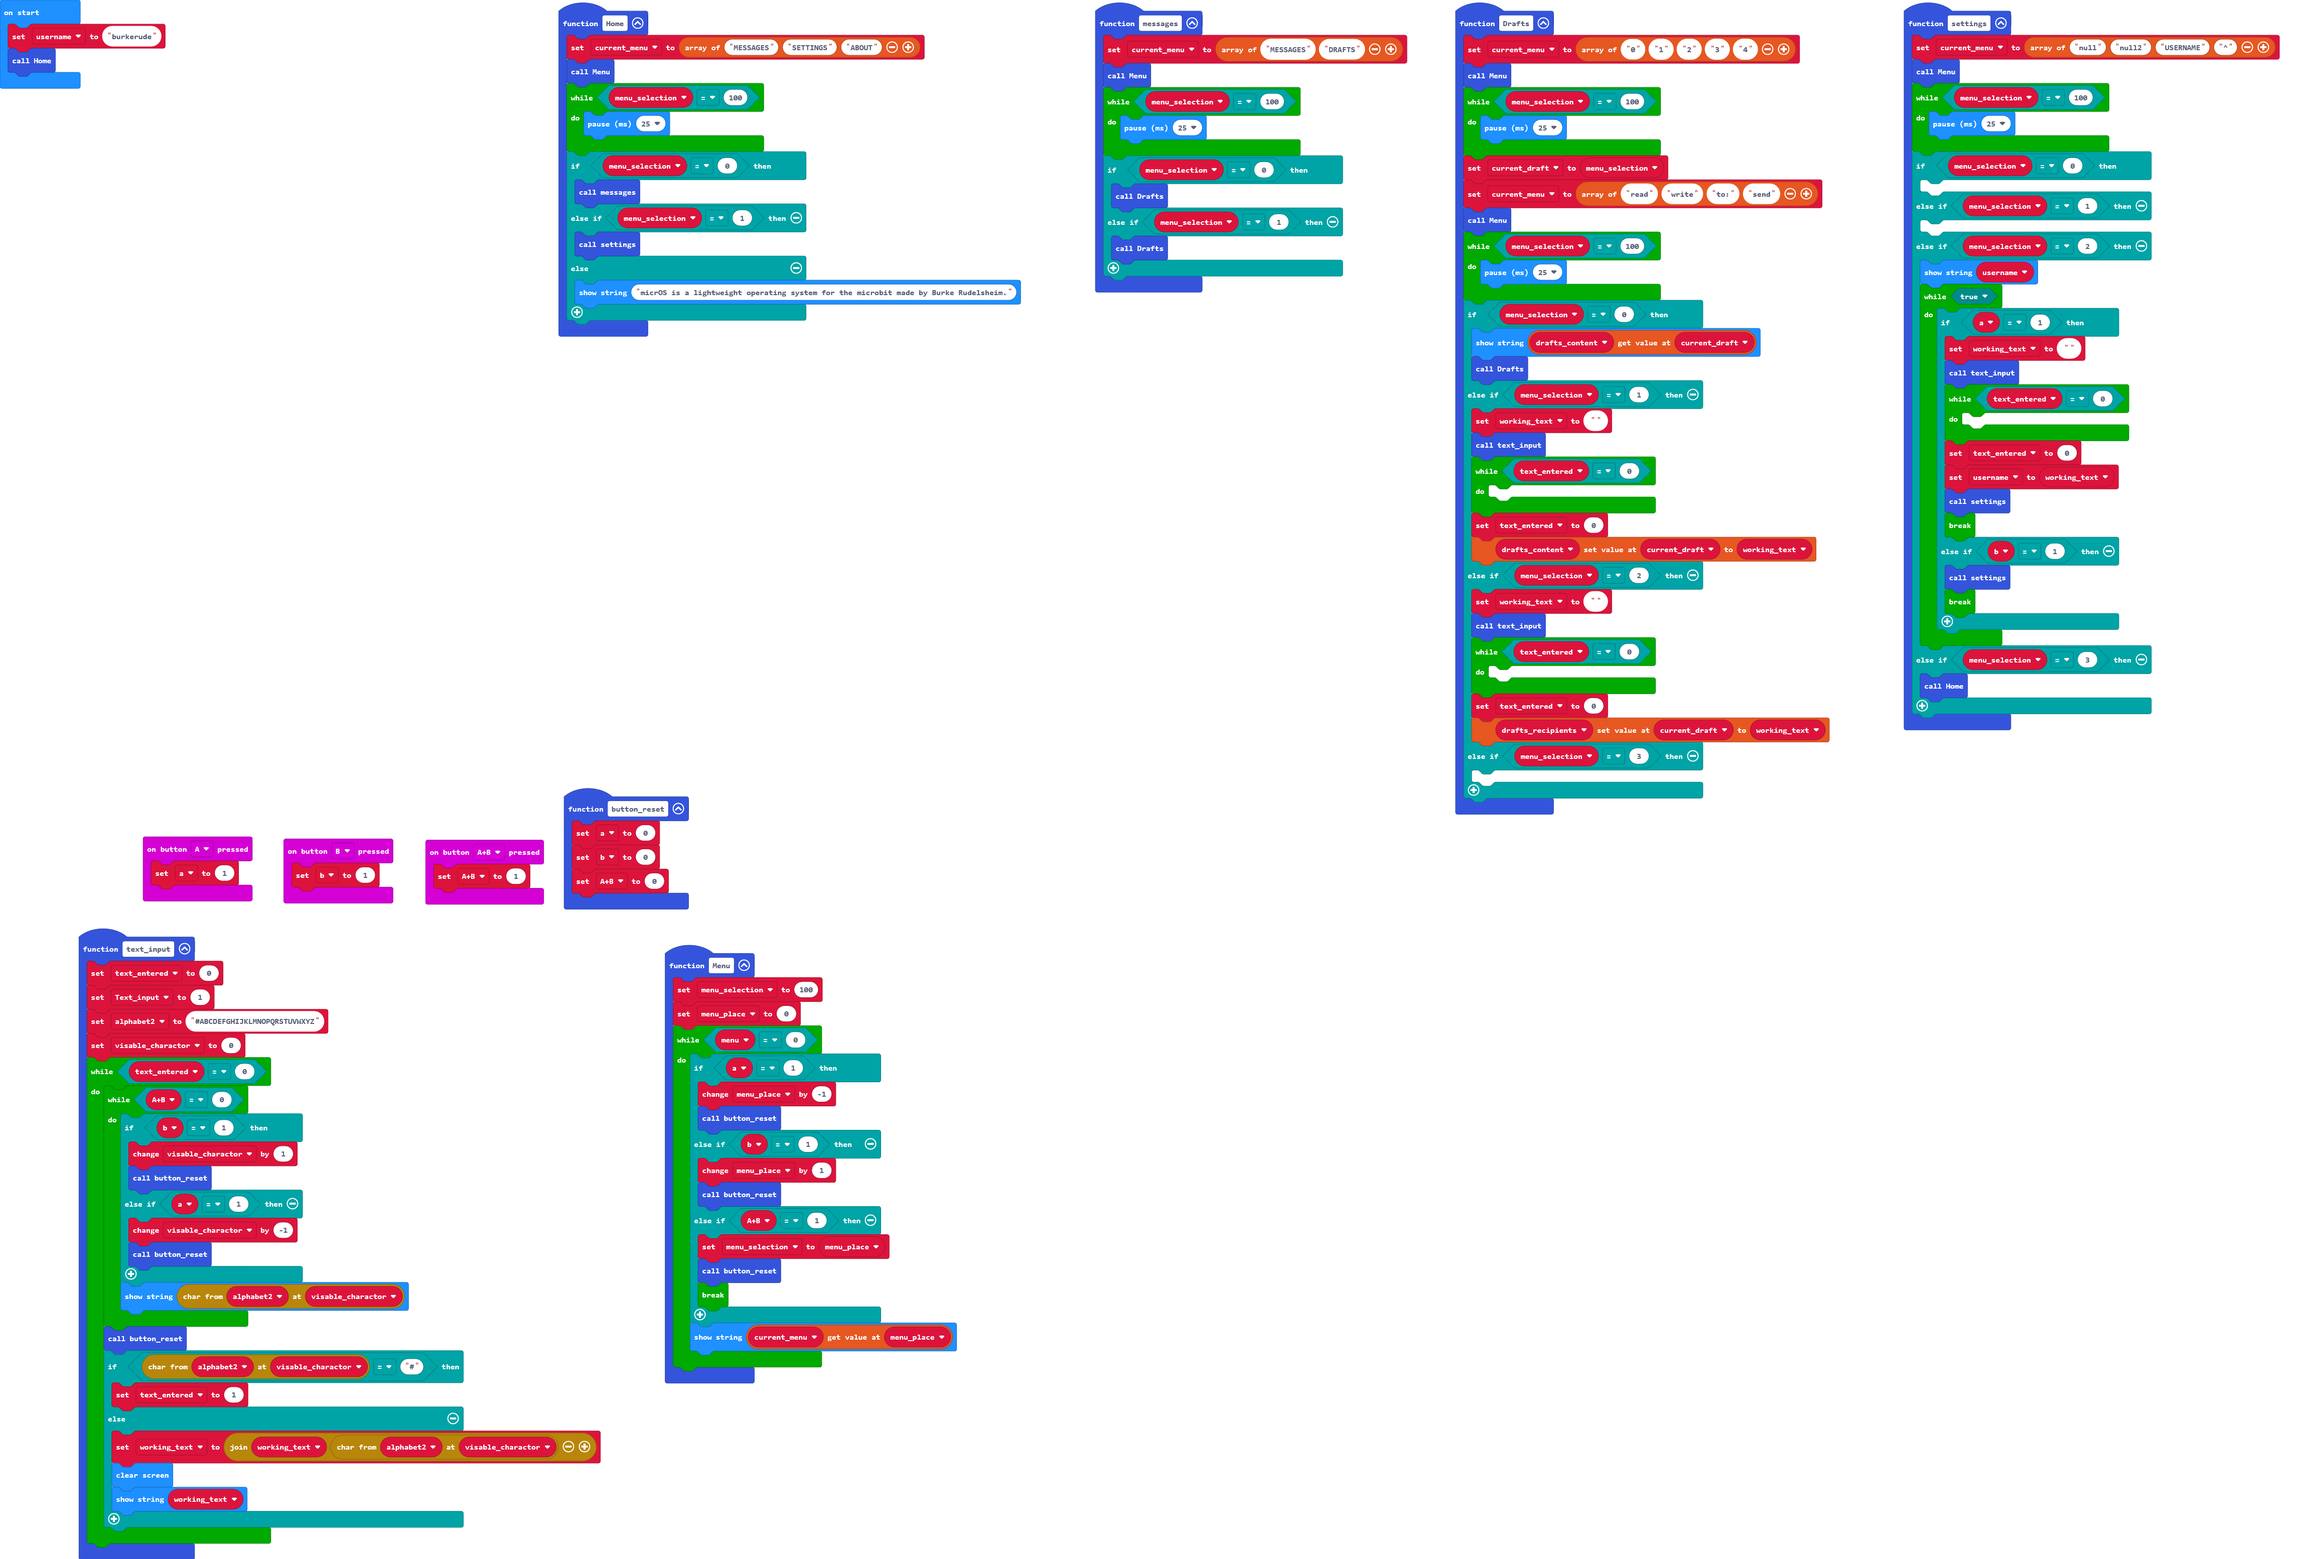
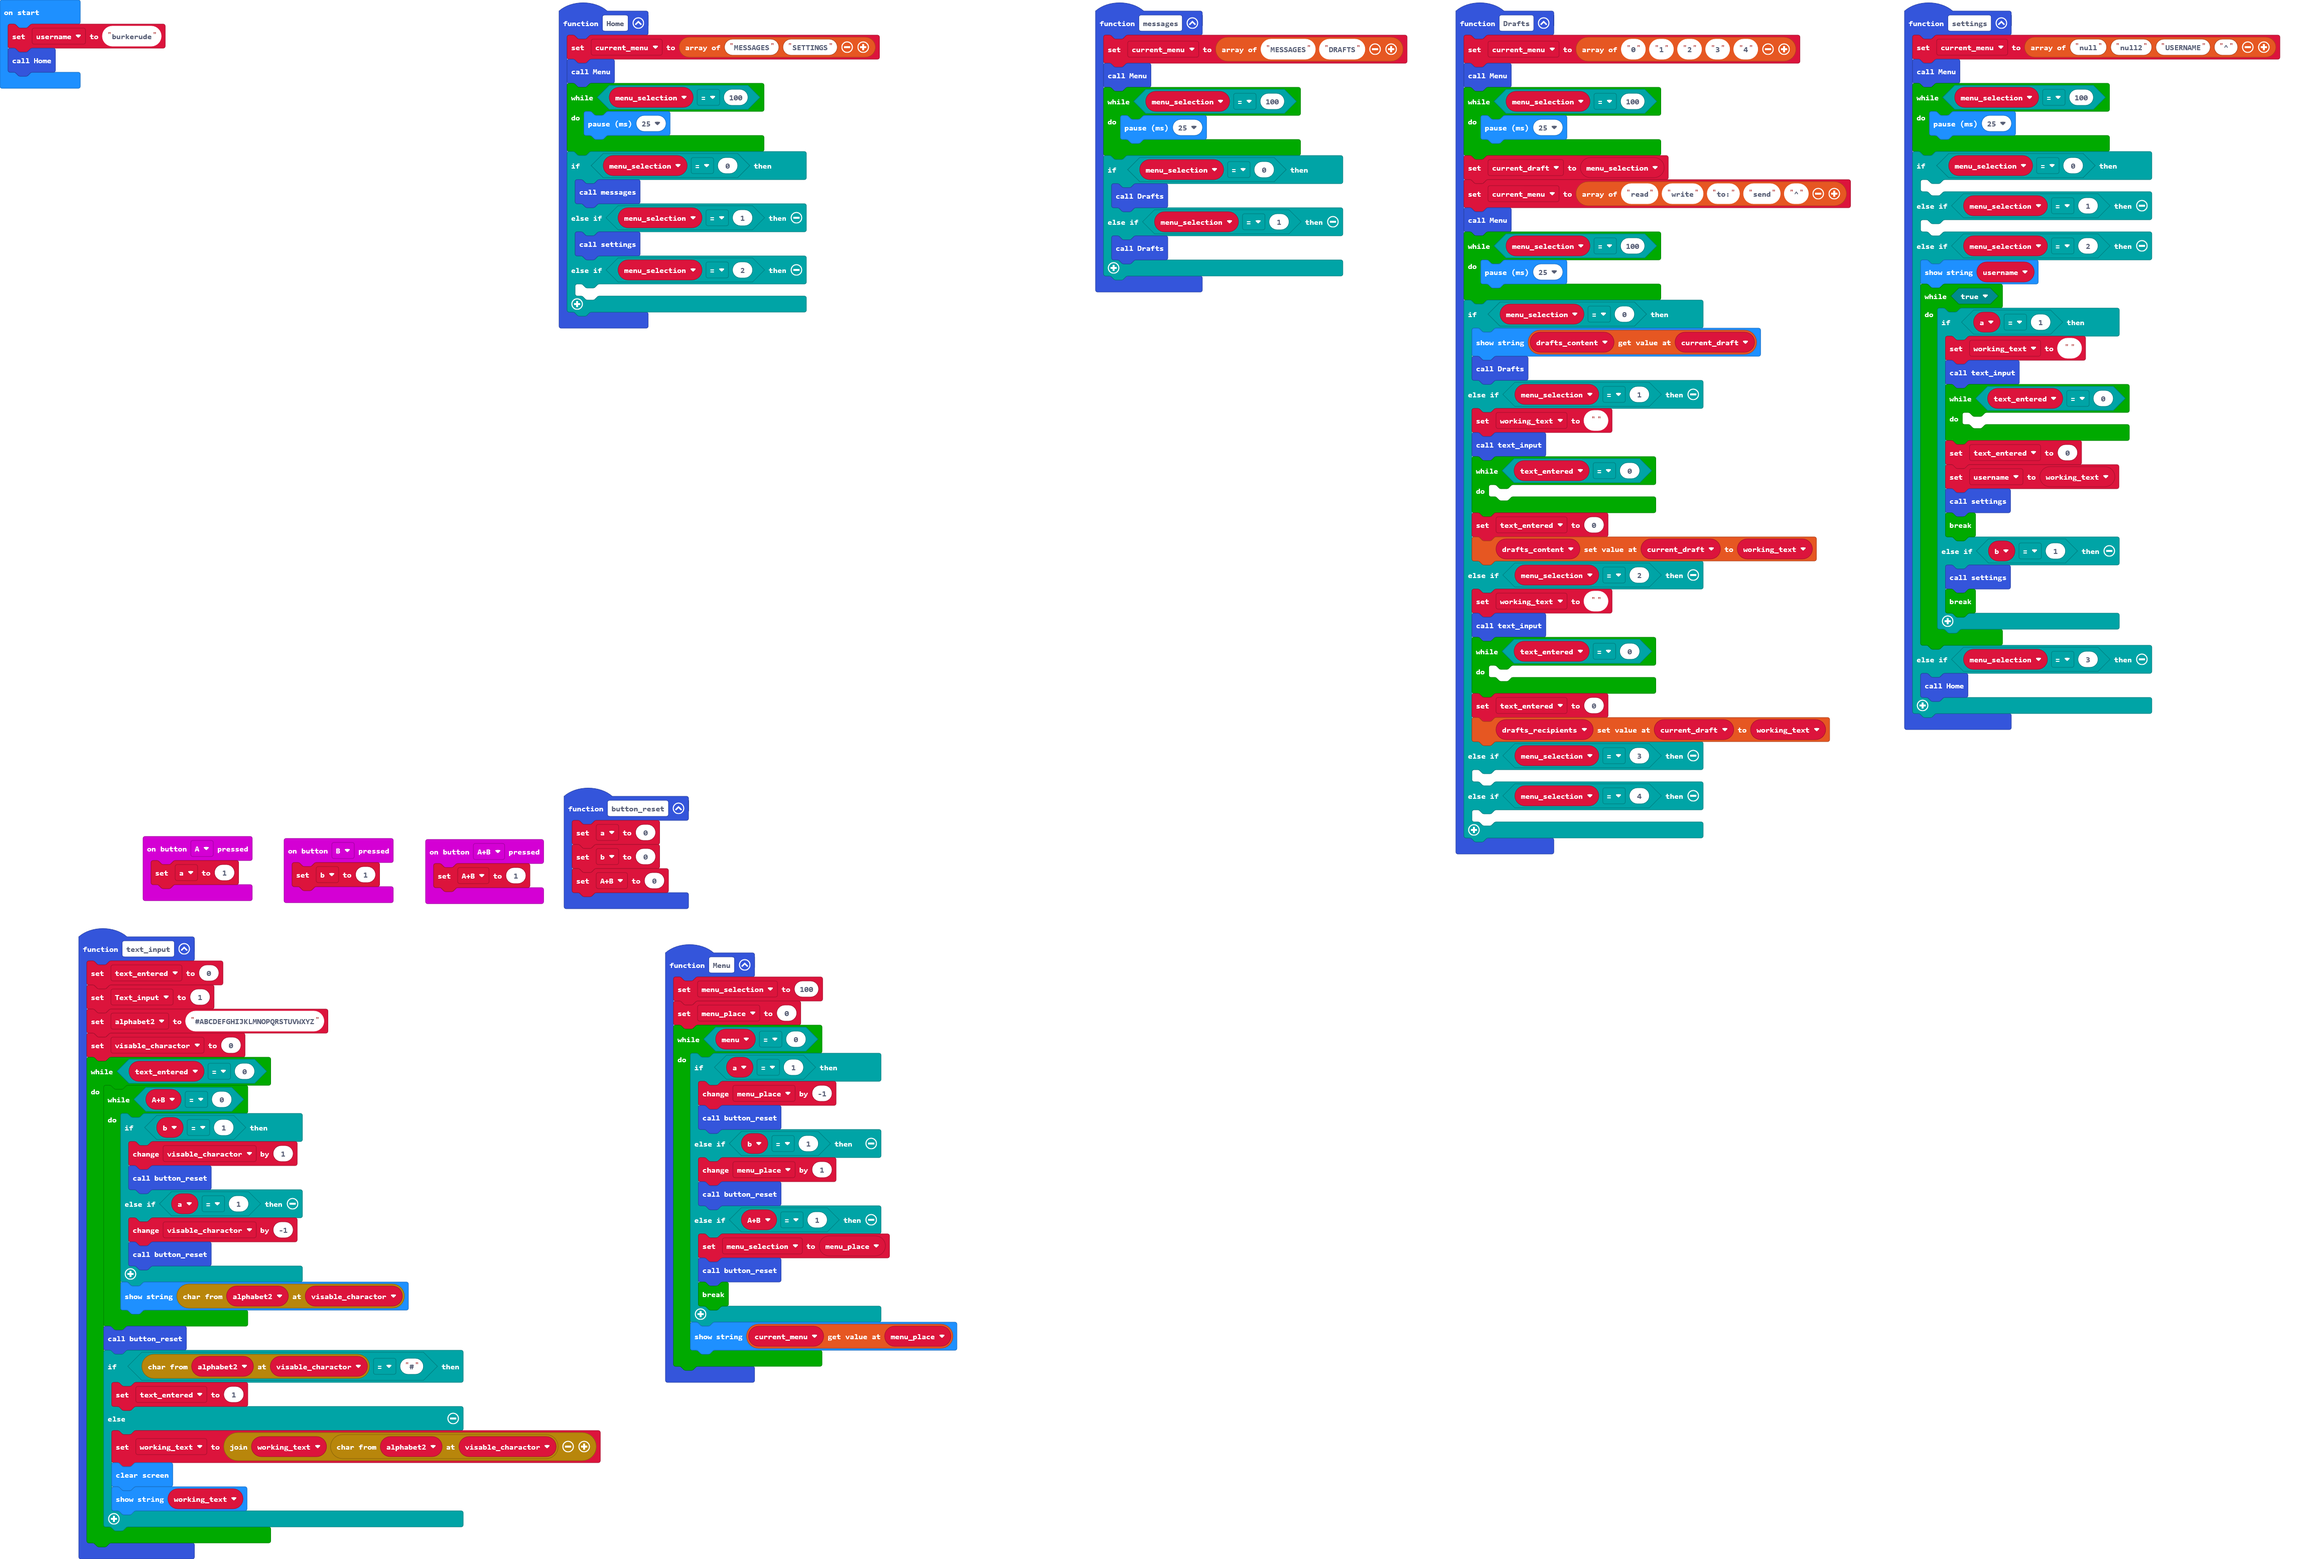
Update main.blocks, main.ts

diff --git a/main.ts b/main.ts
@@ -7,7 +7,7 @@ input.onButtonPressed(Button.A, function () {
     a = 1
 })
 function Home () {
-    current_menu = ["MESSAGES", "SETTINGS", "ABOUT"]
+    current_menu = ["MESSAGES", "SETTINGS"]
     Menu()
     while (menu_selection == 100) {
         basic.pause(25)
@@ -16,8 +16,8 @@ function Home () {
         messages()
     } else if (menu_selection == 1) {
         settings()
-    } else {
-        basic.showString("micrOS is a lightweight operating system for the microbit made by Burke Rudelsheim.")
+    } else if (menu_selection == 2) {
+    	
     }
 }
 function settings () {
@@ -60,7 +60,7 @@ function Drafts () {
         basic.pause(25)
     }
     current_draft = menu_selection
-    current_menu = ["read", "write", "to:", "send"]
+    current_menu = ["read", "write", "to:", "send", "^"]
     Menu()
     while (menu_selection == 100) {
         basic.pause(25)
@@ -86,6 +86,8 @@ function Drafts () {
         text_entered = 0
         drafts_recipients[current_draft] = working_text
     } else if (menu_selection == 3) {
+    	
+    } else if (menu_selection == 4) {
     	
     }
 }
